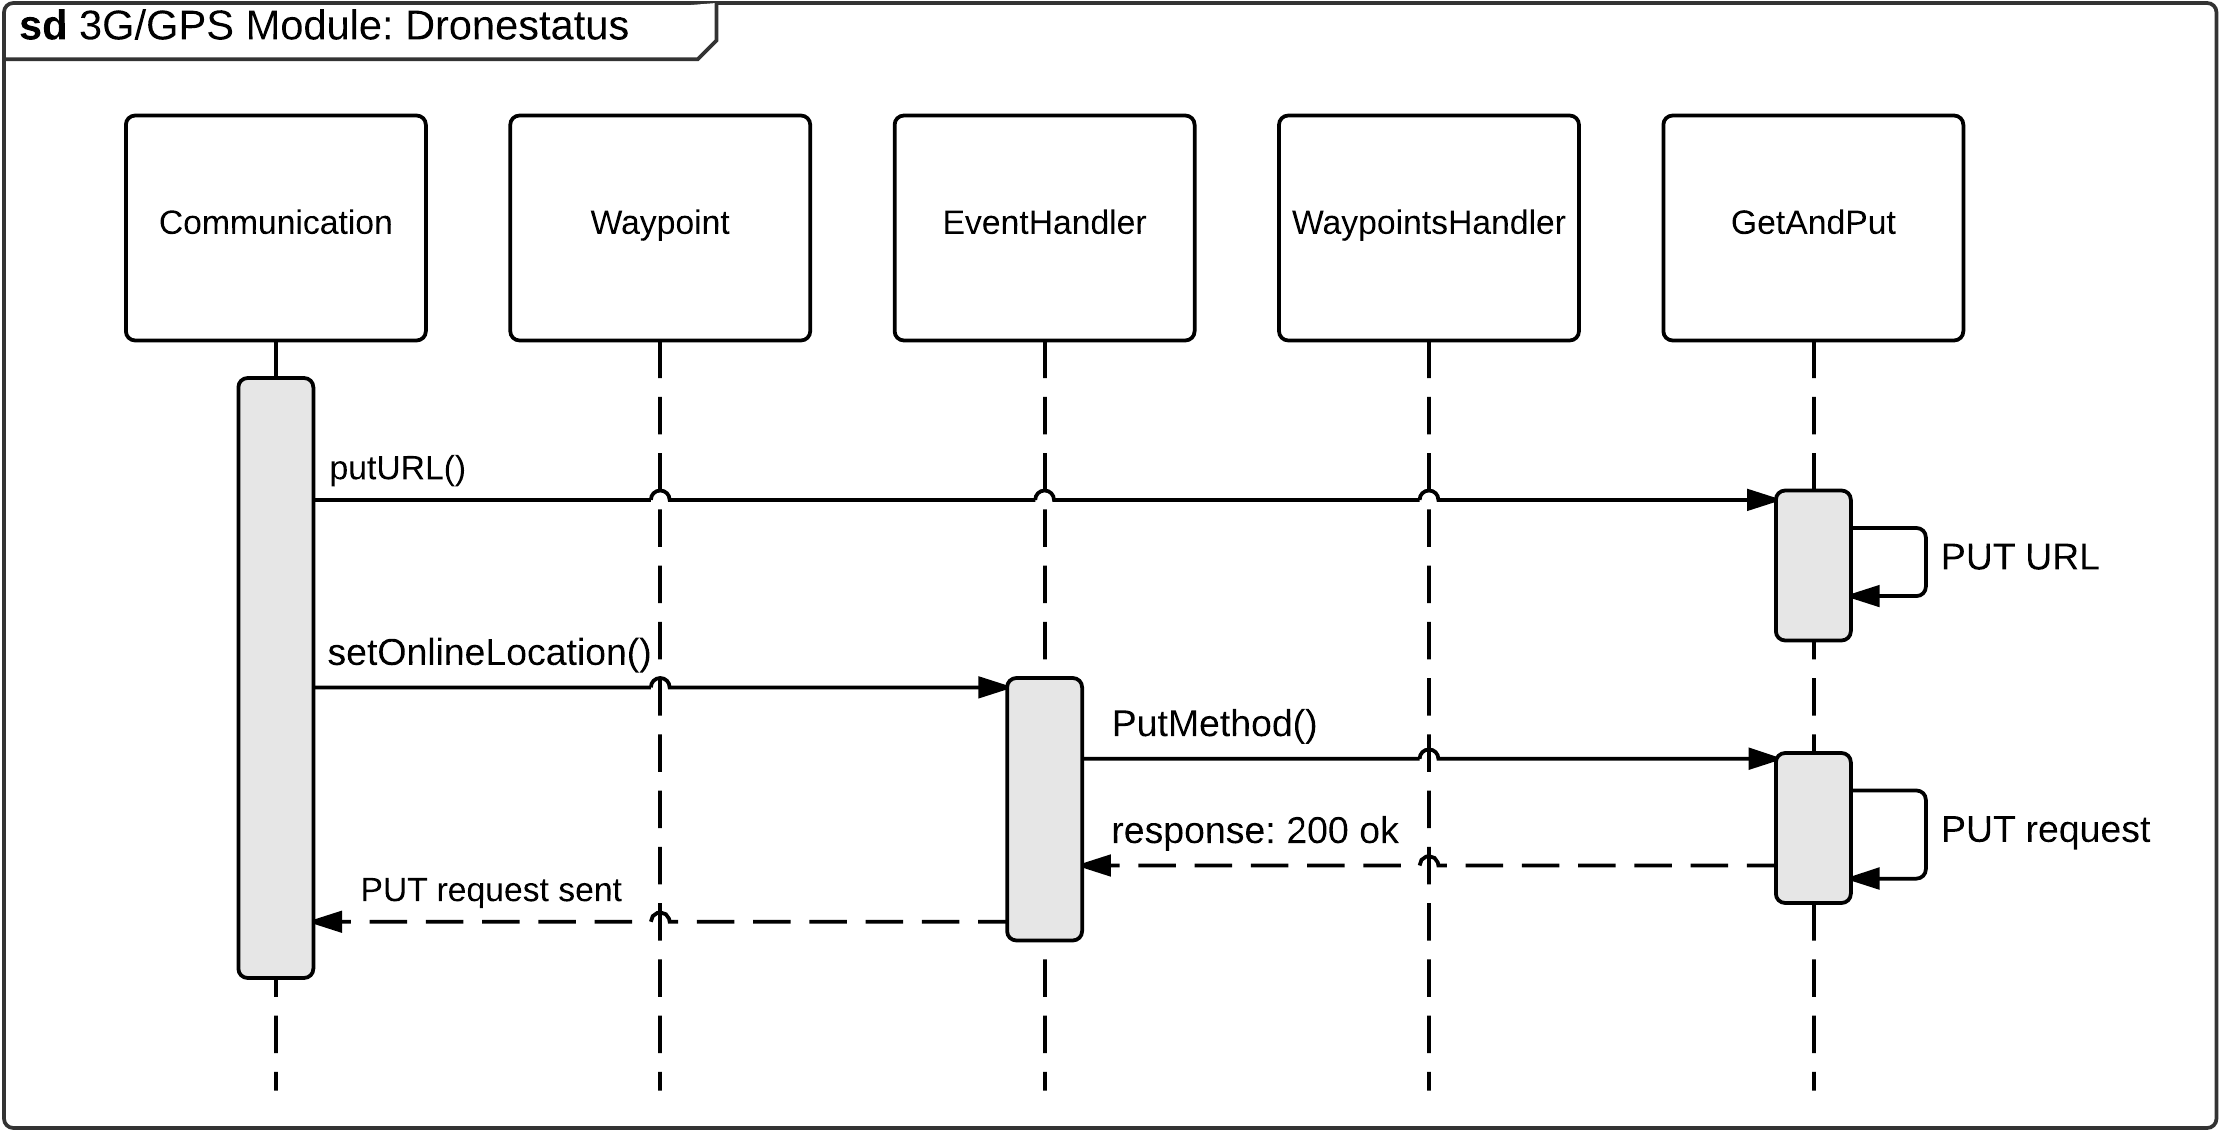
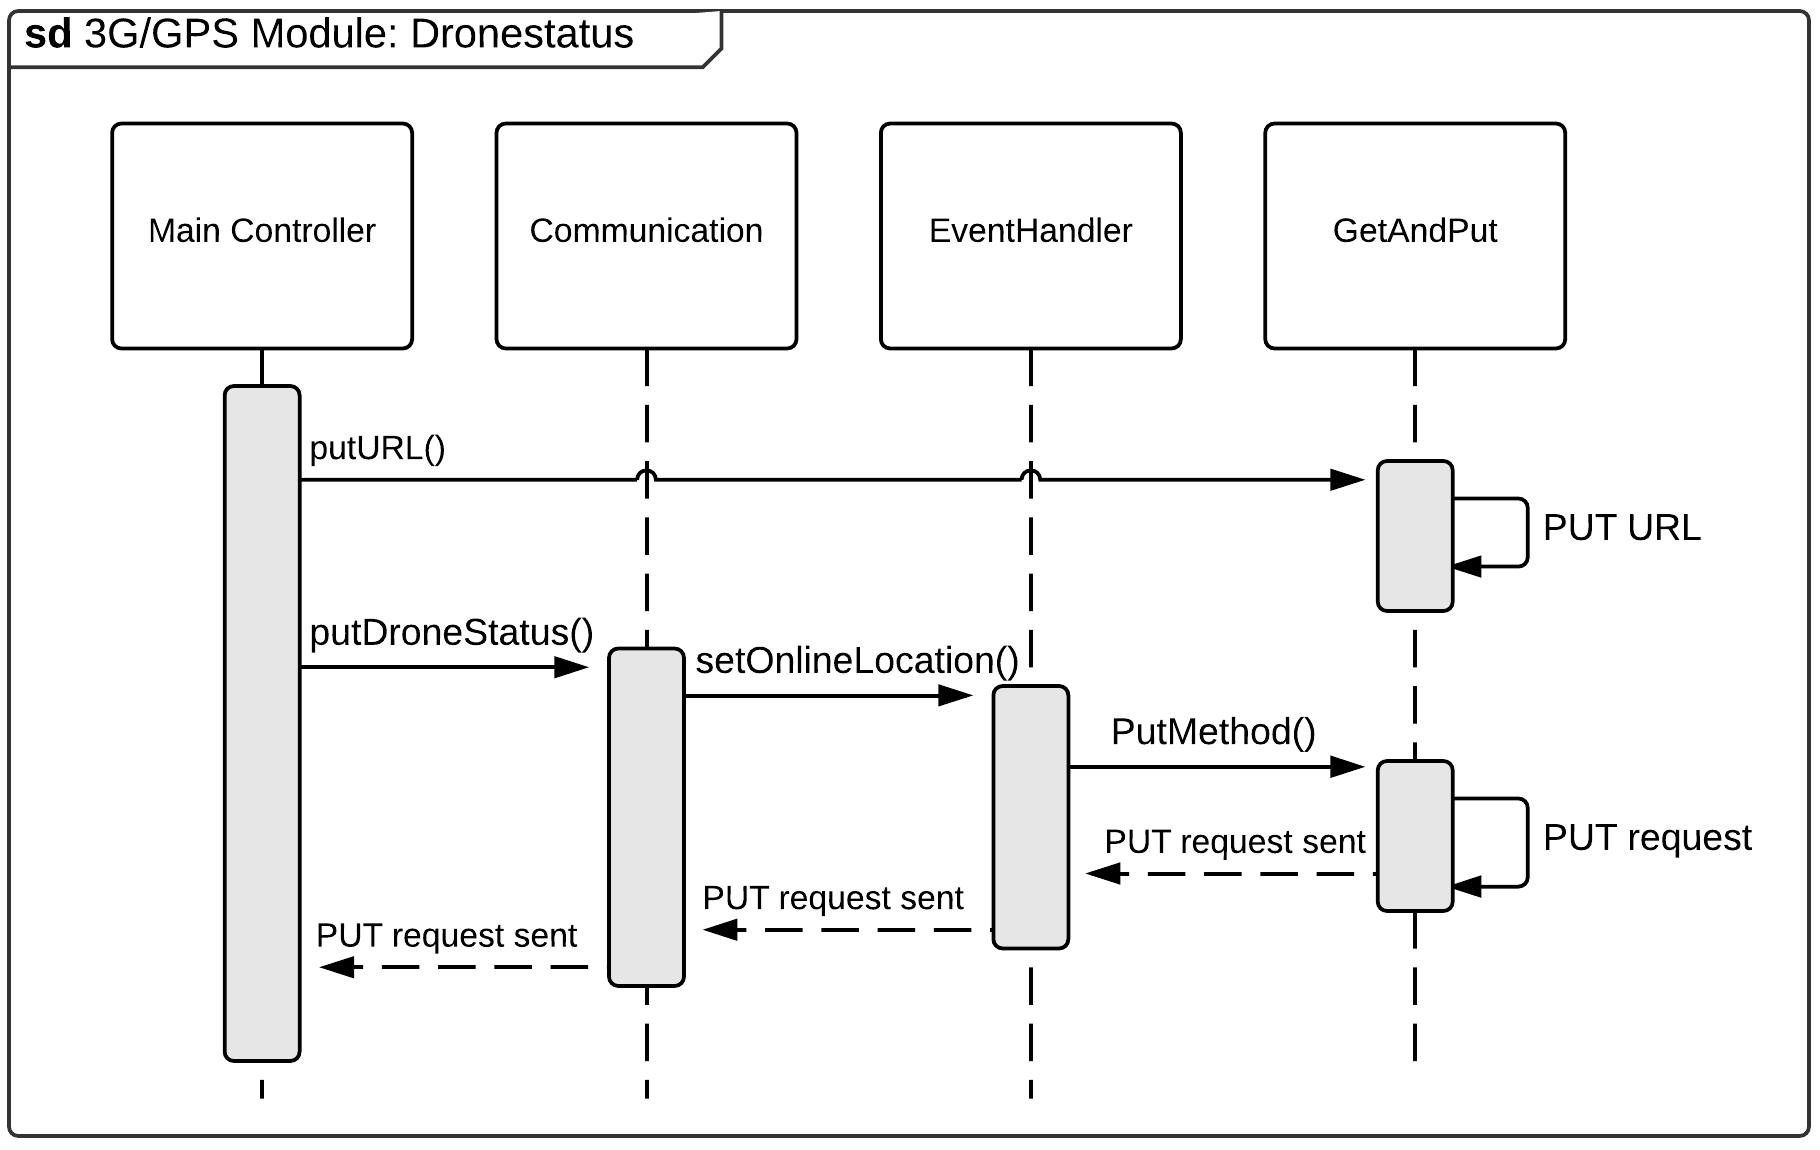
SD opdateret. Billeder tilpasset. Switch Board beskrevet. HTTP protokol opdateret.

Changed region(s): [[0.0, 0.0, 1.0, 1.0]]

diff --git a/5.Transition/Dokumentation/Systemarkitektur/Kapitler/software/views/http_protokol.tex b/5.Transition/Dokumentation/Systemarkitektur/Kapitler/software/views/http_protokol.tex
@@ -1,14 +1,16 @@
 \subsection{HTTP protokol}
 HTTP protokollen er valgt som kommunikations led. 
 
-Derudover understøttes HTTP protokollen også af 3G/GPS modulet, hvilket er den primære årsag til at HTTP protokollen blev valgt som kommunikations lag.
-HTTP er en af de mest anvendte protokoller når der kommer til kommunikation fra webapplikation til server. 
+Der er begrænsede muligheder med 3G/GPS modulet når det kommer til kommunikation. 
+Da 3G/GPS modulet ikke understøtter alle kommunikations lag, men understøtter HTTP protokollen er denne protokol valgt som kommunikations lag.
+Protokollen understøttes af 3G/GPS modulet, hvilket er den primære årsag til at HTTP protokollen blev valgt som kommunikations lag. 
 
+Derudover er HTTP protokollen den mest anvende protokol til kommunikation mellem en webapplikation og server.
  
 HTTP protokol version 1.1 er valgt fremfor 1.0, da version 1.1 indeholder metoden PUT, som er en vigtig metode for systemet.
 
 Metoderne der anvendes er GET, PUT og POST. Når en af disse metoder anvendes, kommer der et svar retur, som indeholder en række informationer.
-Svaret indeholder en header og en body, som vist på Figur \ref{fig:headerbodyget}. 
+Svaret indeholder en header og en body, som vist på figur \ref{fig:headerbodyget}. 
 
 Headeren indeholder informationer om HTTP forbindelsen. Den første linje indeholder en status besked, som viser hvorvidt beskeden er blevet modtaget korrekt eller om der er sket en fejl. Ydermere inderholder headeren tidspunktet for modtagelsen, hvilket format body'en er i, tilladte metoder til kommunikation og hvilken type server der er hentet fra. Selve body'en starter på figur \ref{fig:headerbodyget} efter 6b og slutter ved 0, hvor 6b er antal karakterer i body'en vist i hexadecimal. Når PUT eller POST anvendes, er det nødvendigt at sende information for headeren med. Derudover er det vigtigt at sende antal karakterer i bodyen med. Ved PUT og POST modtages der også et svar i form af en header og en body, med de samme informationer som ved GET metoden. 
 \begin{figure}[H]

diff --git a/5.Transition/Dokumentation/Systemarkitektur/Kapitler/hardware/switchboard_design.tex b/5.Transition/Dokumentation/Systemarkitektur/Kapitler/hardware/switchboard_design.tex
@@ -1,0 +1,13 @@
+\subsection{Hardware design Switch board}
+I det følgende afsnit beskrives designet af hardwaren til switch boardet. Switch boardet er udviklet således at fjernbetjeningen kan overtage styringen fra main controlleren.
+
+På figur \ref{fig:switchboard_design} ses det overordnede design til switch boardet. 
+De respektive PWM signaler skal ind i en 2-input AND gate hvor hver PWM signal har en AND gate. Den anden indgang bruges af et kontrol pin som styres af main controlleren. Denne pin sættes enten høj eller lav, afhængigt af hvilken enhed der skal styre dronen. 
+De AND gates der har med samme PWM styring at gøre (fx. Throttle) sendes til en OR gate som sender PWM signalet videre til flight control boardet. 
+
+\begin{figure}[H]
+	\centering
+	\includegraphics[width=1\textwidth]{Billeder/hardware/switch_board_diagram.png}
+	\caption{Switch board design}
+	\label{fig:switchboard_design}
+\end{figure}

diff --git a/5.Transition/Dokumentation/Systemarkitektur/Systemarkitektur.tex b/5.Transition/Dokumentation/Systemarkitektur/Systemarkitektur.tex
@@ -17,7 +17,7 @@
 \include{Kapitler/domain_model}
 \include{Kapitler/BDD/BDD}
 \include{Kapitler/IBD/_IBD}
-
+\include{Kapitler/hardware/switchboard_design}
 \include{kapitler/software/software}
 
 %\newpage
